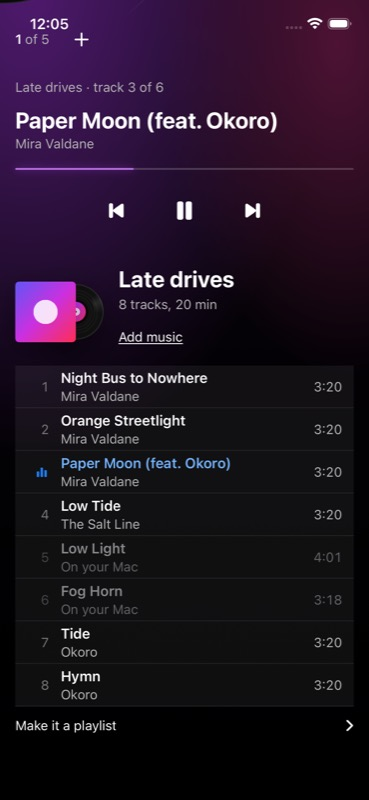
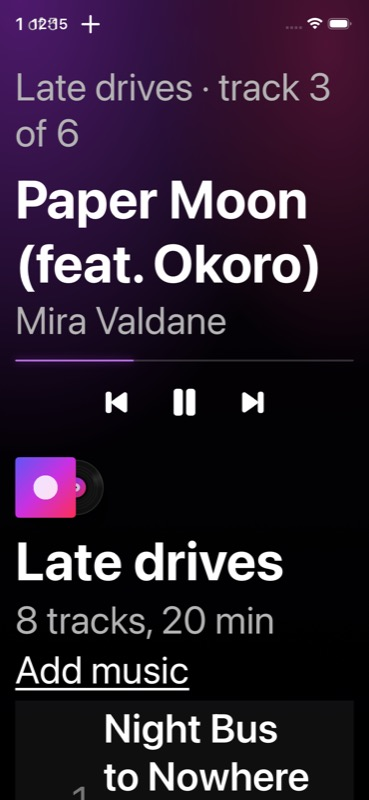
iOS: cap the mini player glyph, accessibility and idle gallery frames (#414)
Codex round 1: the mini player's drawn glyph grew without a cap inside a
fixed 44 pt frame; it is now capped at 35 pt and the frame is a minimum, so
the target grows with it. The collections-player-ax and -ax-controls frames
now set accessibility5, and player-mini-ax5 and collections-player-idle
(collections on the wheel, nothing playing, transport disabled) are new.

diff --git a/apps/ios/Locally/Views/Components/ComponentGallery.swift b/apps/ios/Locally/Views/Components/ComponentGallery.swift
@@ -12,7 +12,7 @@ struct ComponentGallery: View {
         // The plain controls (#411): main button, text and icon buttons, the slim switches and the size slider, on the studio backdrop.
         "controls",
         // #336: the release page with a row playing under the mini player, at the default size and at accessibility3, and the bar paused.
-        "player-release", "player-release-ax3", "player-mini-paused",
+        "player-release", "player-release-ax3", "player-mini-paused", "player-mini-ax5",
         // #226: Dynamic Type checks of screens that need no sample data.
         "library-empty", "onboarding", "paywall",
         // #204: the real Stats page over sample plays.
@@ -42,7 +42,7 @@ struct ComponentGallery: View {
         "collections-library", "collections-screen", "collections-queue", "collections-edit", "collections-empty", "collections-queue-ax", "collections-add", "collections-playing", "collections-add-failed", "collections-wont-play", "collections-playlist-guide", "collections-none-here",
         // #352: the record player on the Collections screen, over seeded collections and a player on fakes.
         "collections-player-playing", "collections-player-browsing", "collections-player-paused", "collections-player-vinyl", "collections-player-reduce-motion",
-        "collections-player-ax", "collections-player-narrow", "collections-player-empty", "collections-player-wont-play", "collections-player-many", "collections-player-single", "collections-player-ax-lower", "collections-player-ax-controls", "collections-player-narrow-lower",
+        "collections-player-ax", "collections-player-narrow", "collections-player-empty", "collections-player-wont-play", "collections-player-many", "collections-player-single", "collections-player-ax-lower", "collections-player-ax-controls", "collections-player-narrow-lower", "collections-player-idle",
         // #363: the cover-tinted glass controls, a bright cover in front, and accessibility3 text.
         "player-bright", "player-ax3",
         // #361: the one-size Stats grid and the one-line artist rows. Each name takes "-320" (a 320 pt screen) and "-ax3" (accessibility3): see `StatsCreditGallery`.
@@ -300,8 +300,12 @@ struct ComponentGallery: View {
             CollectionsPlayerGallery(scrollsTo: CollectionsPlayerView.queueID)
         case "collections-playing":
             CollectionsPlayingGallery()
-        case "collections-player-playing", "collections-player-ax":
+        case "collections-player-playing":
             CollectionsPlayerGallery()
+        case "collections-player-ax":
+            CollectionsPlayerGallery().dynamicTypeSize(.accessibility5)
+        case "collections-player-idle":
+            CollectionsPlayerGallery(playing: false)
         case "player-bright":
             CollectionsPlayerGallery(brightFront: true, scrollsTo: CollectionsPlayerView.nowPlayingID)
         case "player-ax3":
@@ -315,7 +319,7 @@ struct ComponentGallery: View {
         case "collections-player-reduce-motion":
             CollectionsPlayerGallery(reduceMotion: true)
         case "collections-player-ax-controls":
-            CollectionsPlayerGallery(scrollsTo: CollectionsPlayerView.nowPlayingID)
+            CollectionsPlayerGallery(scrollsTo: CollectionsPlayerView.nowPlayingID).dynamicTypeSize(.accessibility5)
         case "collections-player-ax-lower":
             CollectionsPlayerGallery(scrollsTo: CollectionsPlayerView.queueID)
         case "collections-player-narrow-lower":
@@ -375,6 +379,8 @@ struct ComponentGallery: View {
             PlayerGallery(paused: false).dynamicTypeSize(.accessibility3)
         case "player-mini-paused":
             PlayerGallery(paused: true, showsLibrary: true)
+        case "player-mini-ax5":
+            PlayerGallery(paused: true, showsLibrary: true).dynamicTypeSize(.accessibility5)
         case "release-view-large-text":
             IconsGallery.release().dynamicTypeSize(.accessibility3)
         case "release-view-large-text-bottom":

diff --git a/apps/ios/Locally/Views/Components/MiniPlayer.swift b/apps/ios/Locally/Views/Components/MiniPlayer.swift
@@ -34,6 +34,9 @@ struct MiniPlayerBar: View {
     @Environment(\.dynamicTypeSize) private var dynamicTypeSize
     @ScaledMetric(relativeTo: .body) private var coverBase: CGFloat = 44
     private var coverSide: CGFloat { inAccessory ? min(coverBase, 38) : coverBase }
+    /// The control glyphs scale with Dynamic Type up to a cap, and the 44 pt target grows with them (#414).
+    @ScaledMetric(relativeTo: .body) private var scaledControlGlyph: CGFloat = 22
+    private var controlGlyph: CGFloat { min(scaledControlGlyph, 35) }
     @State private var cover: UIImage?
     static let accessoryBacking = 0.7
 
@@ -102,9 +105,9 @@ struct MiniPlayerBar: View {
 
     private func control(_ icon: LocallyIcon.Name, label: String, id: String, action: @escaping () -> Void) -> some View {
         Button(action: action) {
-            LocallyIcon(icon, size: 22, scaled: true)
+            LocallyIcon(icon, size: controlGlyph, scaled: false)
                 .foregroundStyle(Theme.primaryText)
-                .frame(width: 44, height: 44)
+                .frame(minWidth: 44, minHeight: 44)
                 .contentShape(Rectangle())
         }
         .buttonStyle(.plain)
